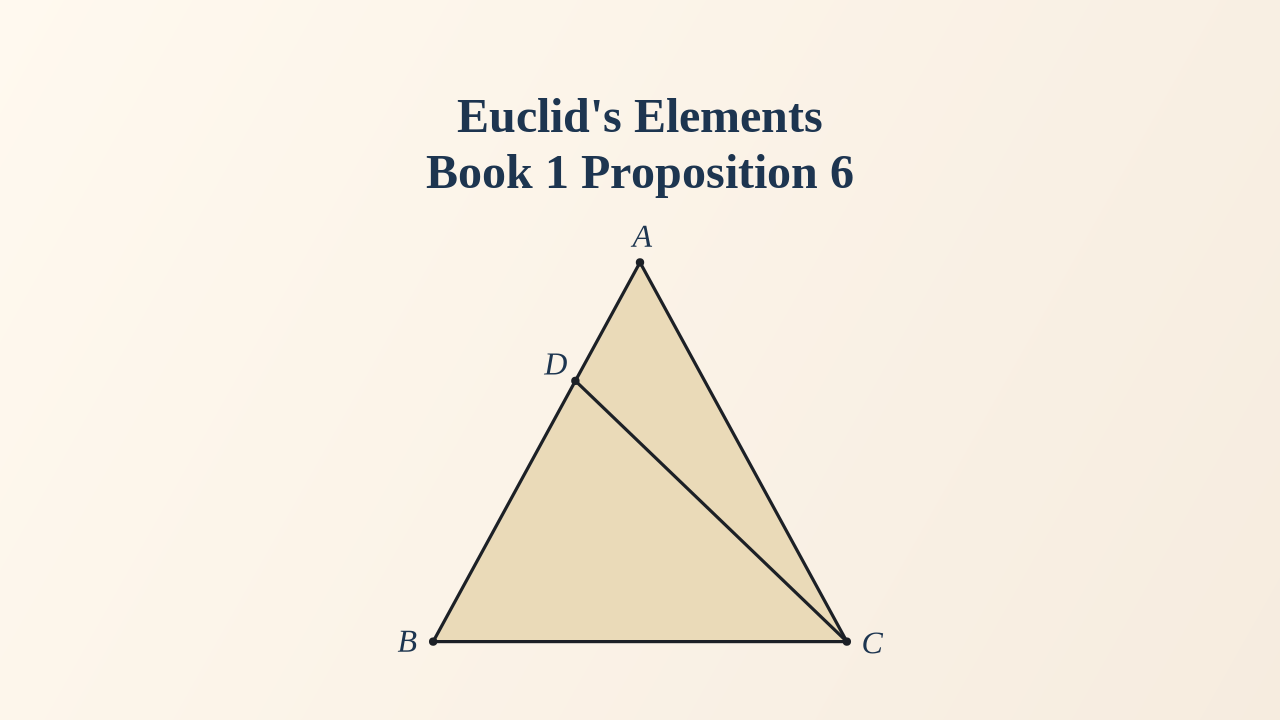
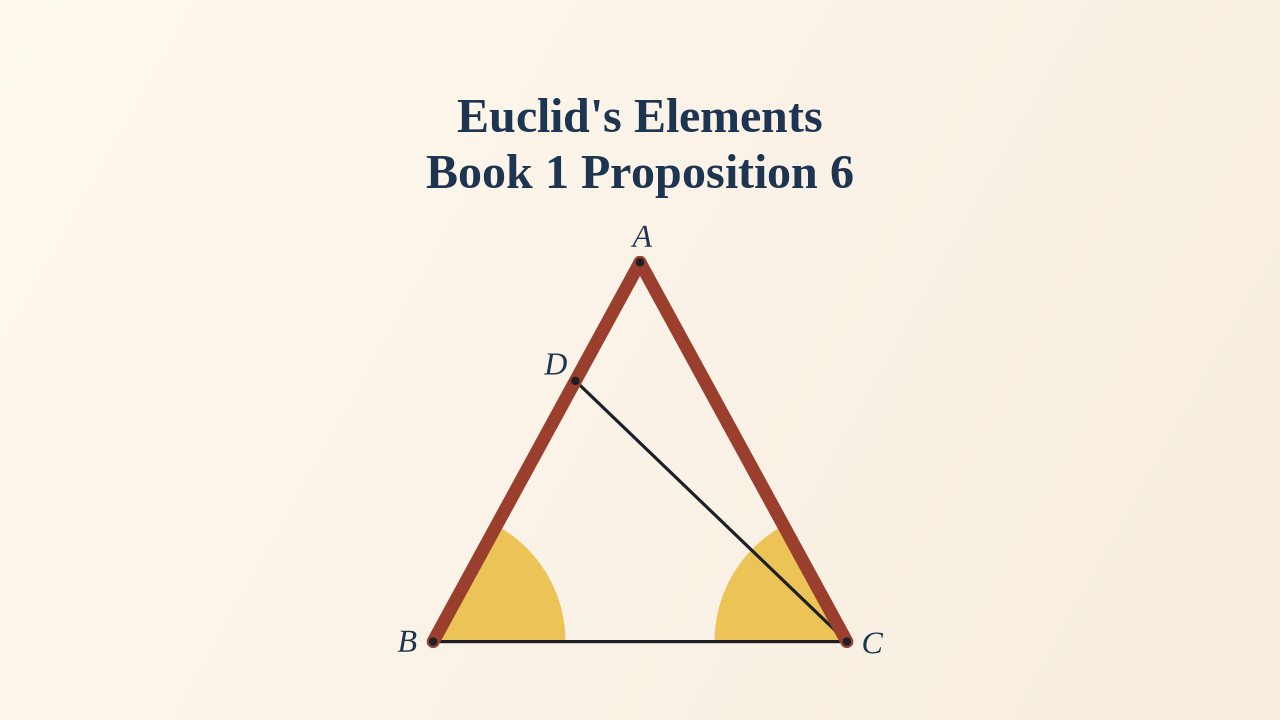
Mark the equal angles and subtending sides on the I.6 thumbnail. (#62)
Proposition 6 names two equal angles and the sides under them, not the whole triangle. ABC and ACB take one yellow pie; AB and AC take the brick. D and DC stay the reductio on the plate.

Changed region(s): [[0.3125, 0.3667, 0.6875, 0.8861]]

diff --git a/scripts/youtube_book1_thumbs.py b/scripts/youtube_book1_thumbs.py
@@ -26,7 +26,12 @@ and larger at the base, rose and smaller under it — so a pair reads as one
 set and the other pair as the other. Both hues sit with the plate: the
 yellow is the angle highlight, the rose is the brick of the line cards
 lifted so it still reads as a wash. A pie fills the angle; it does not
-replace a stroke or a letter. Labels stay navy, the color every other card
+replace a stroke or a letter. I.6 is the converse: two equal angles, and
+the sides subtending them equal. The card keeps the plate — D and DC are
+the reductio, not the subject — and marks what the enunciation names.
+∠ABC and ∠ACB take one yellow pie. AB and AC, the sides under those
+angles, take the brick. A wash of ABC would light the triangle, which the
+proposition does not claim. Labels stay navy, the color every other card
 uses.
 """
 
@@ -65,7 +70,6 @@ LETTER_R = 0.82  # plate::LETTER_R, em of the letter type
 WASHES: dict[int, list[tuple[str, ...]]] = {
     1: [("A", "B", "C")],
     4: [("A", "B", "C"), ("D", "E", "F")],
-    6: [("A", "B", "C")],
     7: [("A", "C", "B"), ("A", "D", "B")],
     8: [("A", "B", "C"), ("D", "E", "F")],
     16: [("A", "B", "C")],
@@ -104,6 +108,9 @@ LINES: dict[int, list[tuple[str, str]]] = {
     2: [("A", "L"), ("B", "C")],
     # AE cut from the greater AB, equal to the lesser C.
     3: [("A", "E"), ("Cleft", "Cright")],
+    # AB and AC, the sides subtending the equal angles. D lies on AB, so
+    # the named side is the whole chord, not the cut pieces AD and DB.
+    6: [("A", "B"), ("A", "C")],
 }
 
 # Equal angles share a mark: (arm, vertex, arm), grouped by equality.
@@ -114,6 +121,8 @@ ANGLES: dict[int, list[list[tuple[str, str, str]]]] = {
         [("A", "B", "C"), ("A", "C", "B")],
         [("C", "B", "D"), ("B", "C", "E")],
     ],
+    # ∠ABC = ∠ACB. One set. The sides under them are lines, not a second pie.
+    6: [[("A", "B", "C"), ("A", "C", "B")]],
     # ∠D = ∠FEC. One set, so one mark. Arm ends of D are not lettered.
     42: [[("Dleft", "D", "Dright"), ("F", "E", "C")]],
 }
@@ -123,6 +132,9 @@ ANGLES: dict[int, list[list[tuple[str, str, str]]]] = {
 # sets stay distinct at thumbnail size. The larger pie is drawn first.
 ANGLE_MARK: dict[int, list[tuple[tuple[int, int, int], float]]] = {
     5: [(PIE, 0.42), (PIE_ALT, 0.22)],
+    # Same absolute reach as the I.5 base pies, so the pair reads at
+    # thumbnail size. Short of D on AB, and short of the opposite side.
+    6: [(PIE, 0.32)],
     # Rose, not yellow: the pie sits on the gold parallelogram, and yellow
     # reads as more of that wash. One plate radius for the pair — a fraction
     # of each arm would draw the longer angle larger. Short of the letter
@@ -877,6 +889,9 @@ def render(n: int, scene: Scene, out: Path) -> None:
             raise SystemExit(f"I.{n}: line {a}{b} missing")
     lit_ink = {(a, b) for a, b in lit_segs} | {(b, a) for a, b in lit_segs}
     # Construction stays the same ink as I.1. Only the named lines are lit.
+    # A named side may be chained through a construction point (D on AB).
+    # The highlight is the whole chord, drawn over the pieces, so the plate's
+    # dot stays and the brick is not a second stroke beside a gap.
     cr.set_source_rgb(*rgb(INK))
     cr.set_line_width(3.2)
     cr.set_line_cap(cairo.LINE_CAP_ROUND)
